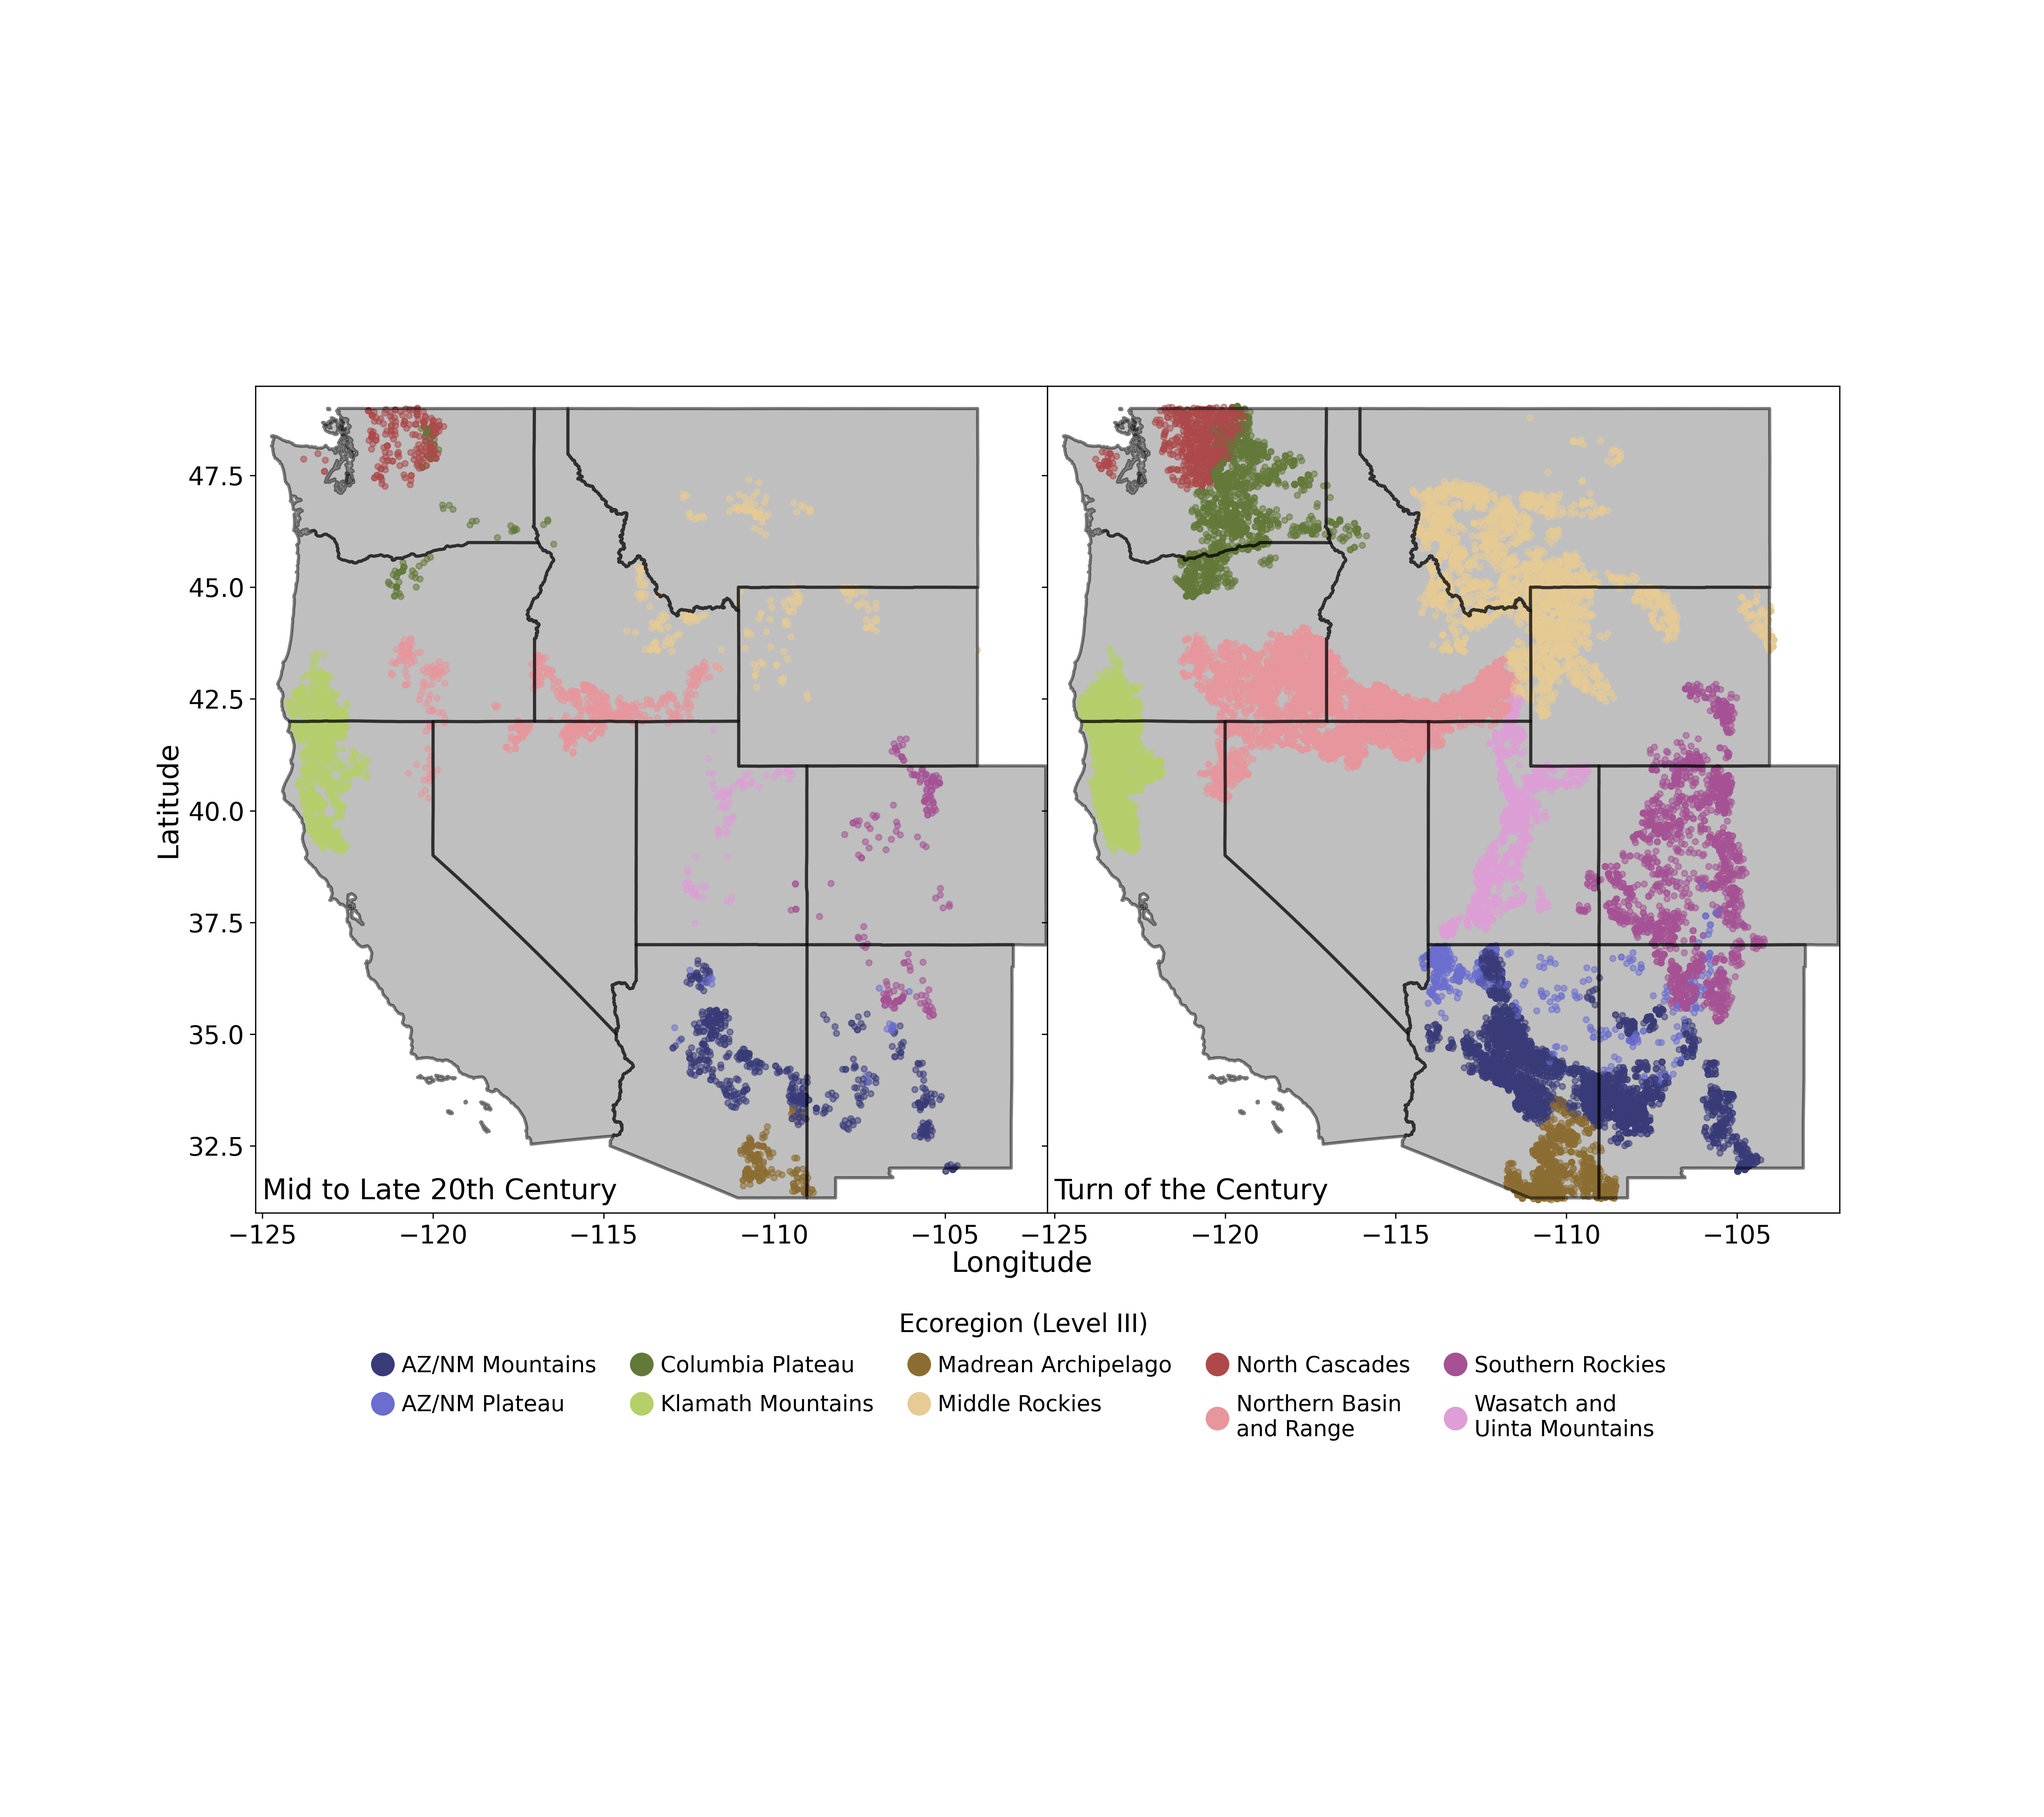
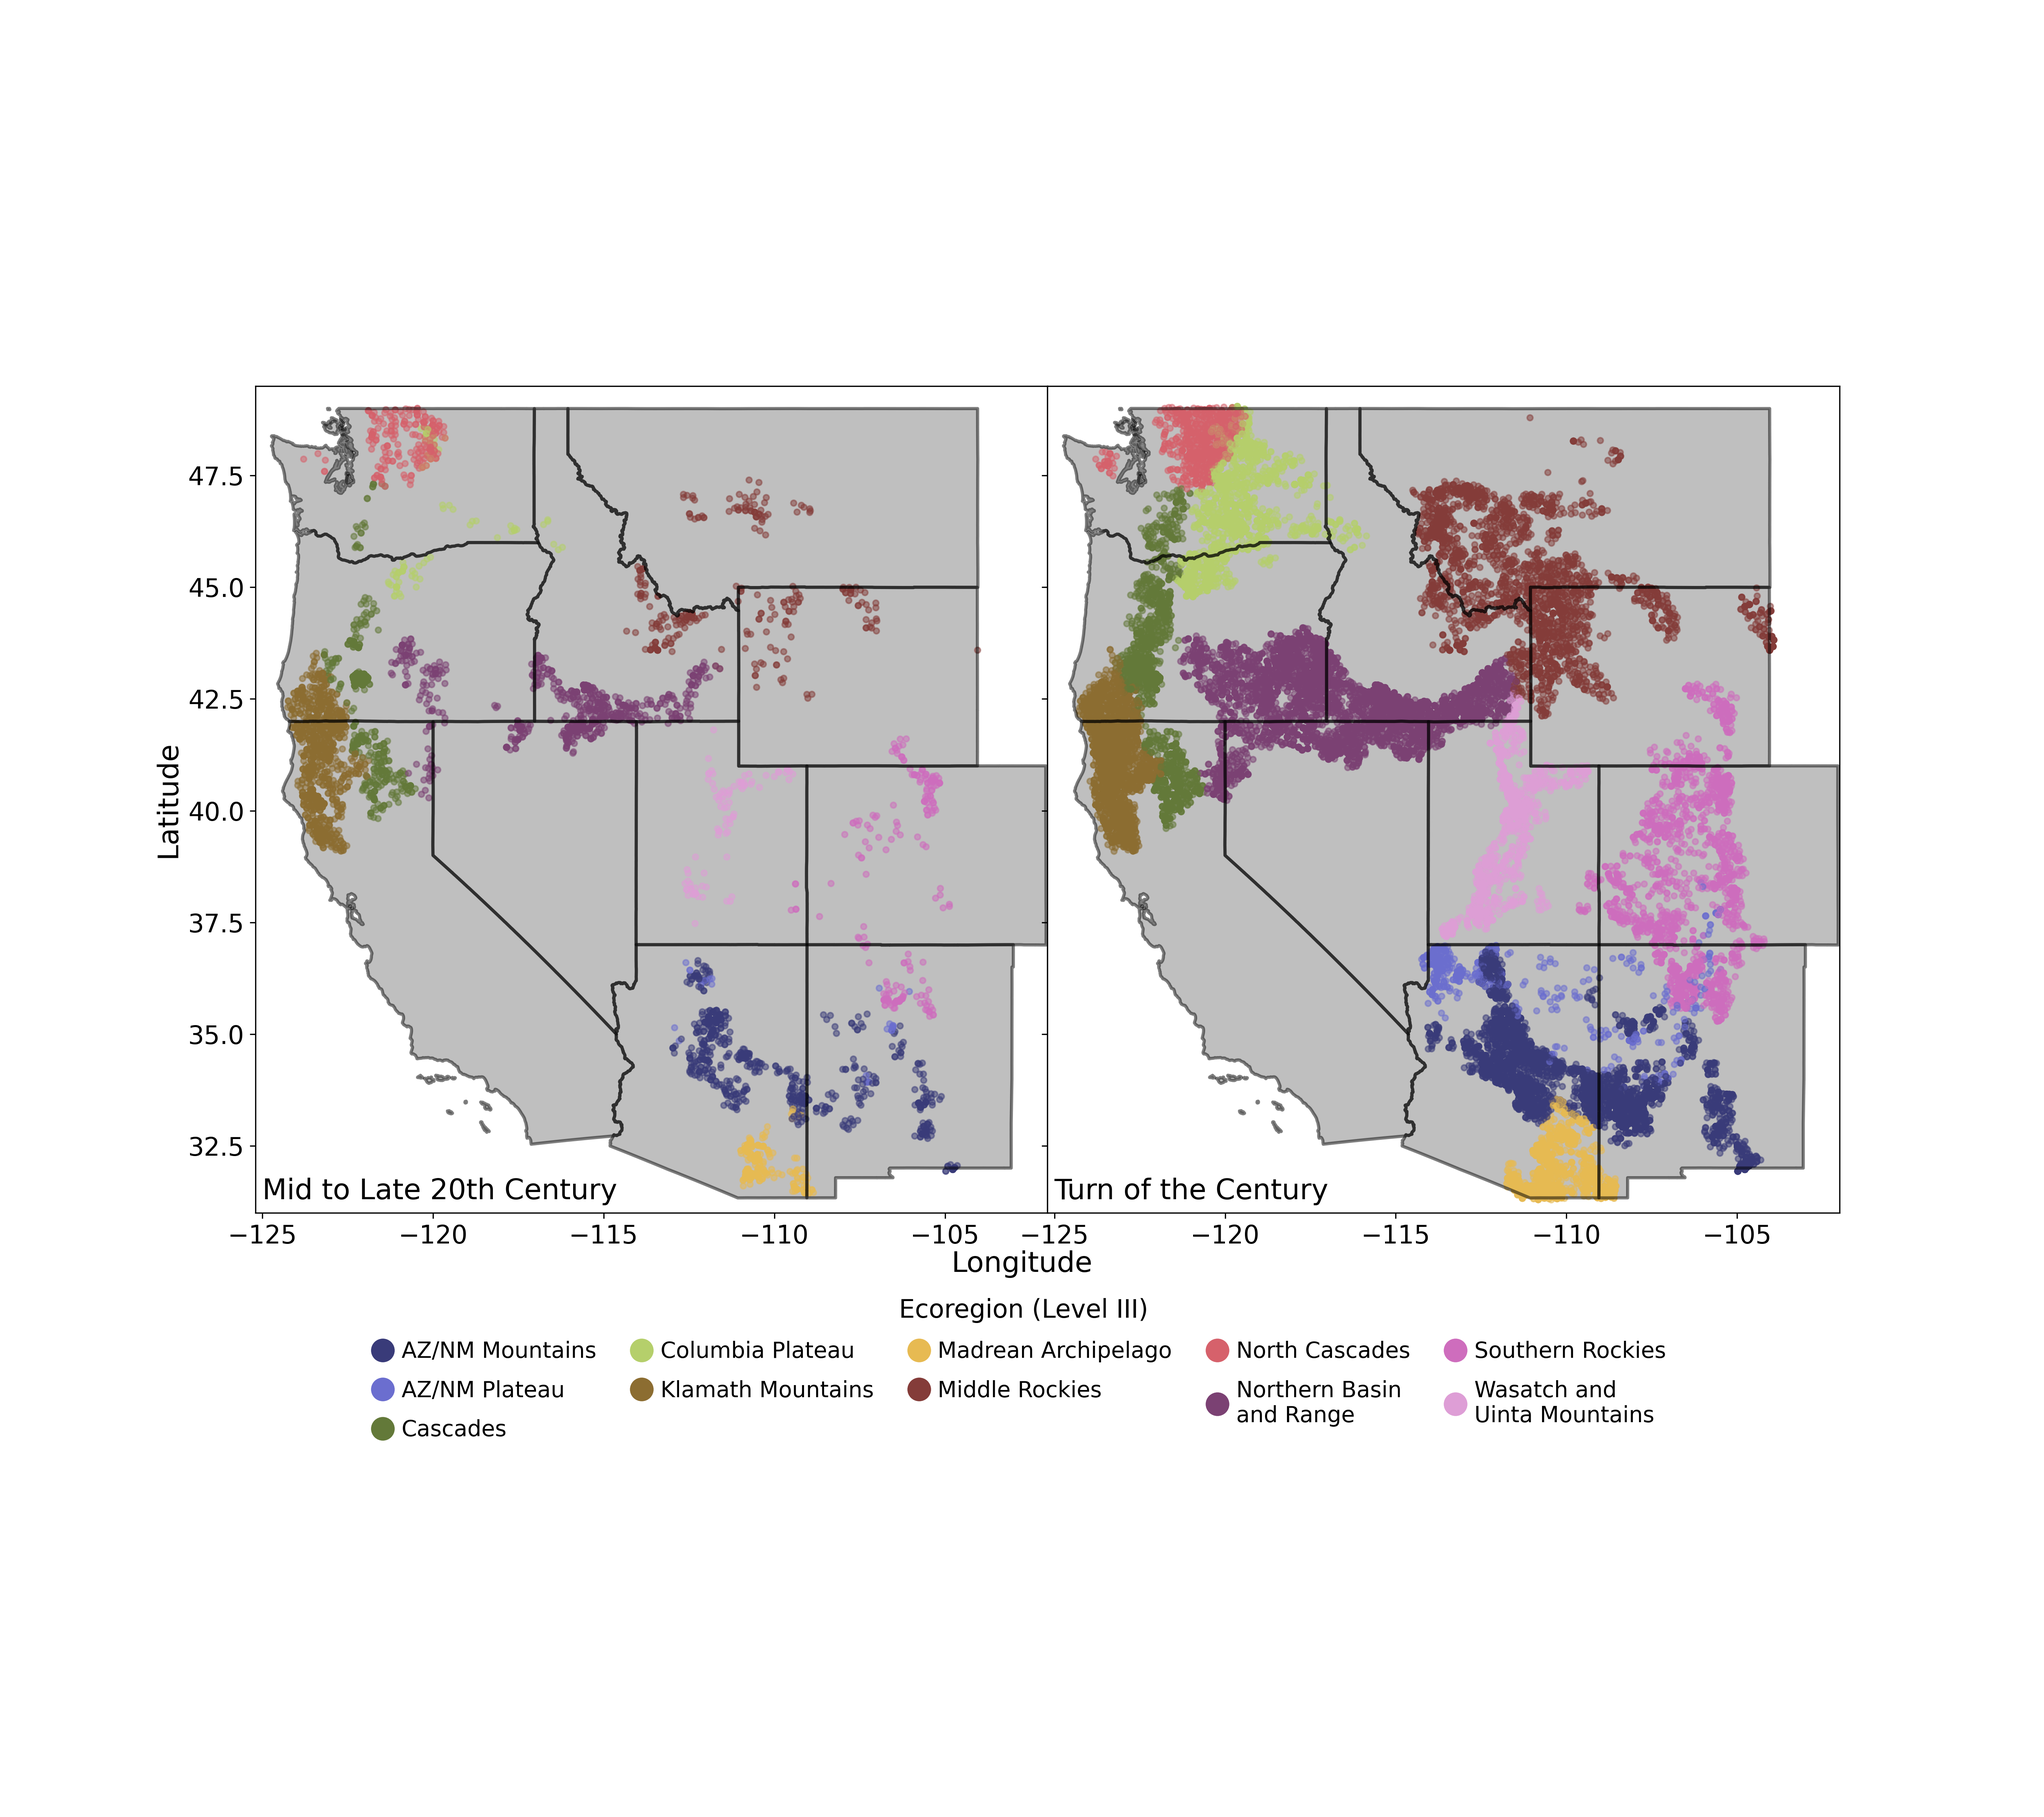
Hard limit to 2024

diff --git a/make_figure_4.py b/make_figure_4.py
@@ -2,8 +2,9 @@ import os
 
 import geopandas as gpd
 import matplotlib.pyplot as plt
-import utils.stat as stat
 from matplotlib.colors import ListedColormap
+
+from utils import stat
 
 project_path = os.path.dirname(os.path.abspath(__file__))
 tables_path = os.path.join(project_path, "Assets/Tables")
@@ -29,6 +30,7 @@ rev_bap = list(reversed(bap_intervals))
 eco_res_all = stat.load_asset(os.path.join(results_path, "ECO_MK_HG_L3_5070.csv"))
 eco_res_all["Kendall's $\\tau$"] = eco_res_all["Kendall's $\\tau$"].astype(float)
 eco_res_all["Changepoint (cp)"] = eco_res_all["Changepoint (cp)"].astype(int)
+print(eco_res_all)
 
 
 eco_res_all = eco_res_all.replace(
@@ -46,7 +48,8 @@ eco_res_all = eco_res_all.replace(
 
 
 eco_res = eco_res_all[eco_res_all["Trend"] == "increasing"]
-eco_res = eco_res[eco_res["Kendall's $\\tau$"] > 0.3]
+eco_res = eco_res[eco_res["Kendall's $\\tau$"] > 0.29]
+print(eco_res)
 print(eco_res["Changepoint (cp)"].mean())
 eco_other = eco_res_all[eco_res_all["Trend"] != "increasing"]
 plot_consume = stat.load_asset(

diff --git a/utils/matplot.py b/utils/matplot.py
@@ -1,12 +1,11 @@
-from pandas import pivot_table, Categorical
-from pandas import options
 import matplotlib.pyplot as plt
-from numpy import arange, zeros, array
-from seaborn import heatmap
+from matplotlib.pyplot import rcParams, show, subplots, subplots_adjust
+from matplotlib.ticker import AutoMinorLocator, MultipleLocator
+from numpy import arange, array, zeros
 from palettable import colorbrewer
-from matplotlib.pyplot import subplots, subplots_adjust, show, rcParams
+from pandas import Categorical, options, pivot_table
 from pandas.plotting import table
-from matplotlib.ticker import MultipleLocator, AutoMinorLocator
+from seaborn import heatmap
 
 options.mode.chained_assignment = None
 

diff --git a/04_statistical_analysis.py b/04_statistical_analysis.py
@@ -1,6 +1,8 @@
-import utils.stat as stat
-import pandas as pd
 import os
+
+import pandas as pd
+
+from utils import stat
 
 project_path = os.path.dirname(os.path.abspath(__file__))
 results_path = os.path.join(project_path, "Assets/Results")
@@ -211,7 +213,6 @@ def BAP_Interval_Test():
             interval_results.append(res)
             i_res = pd.merge(pivot[pivot["BAP Interval"] == b], res, on="BAP Interval")
             interval_results_ts.append(i_res)
-        #
 
         interval_results = pd.concat(interval_results)
         interval_results_ts = pd.concat(interval_results_ts)

diff --git a/01_make_burn_area_matrix.py b/01_make_burn_area_matrix.py
@@ -1,13 +1,14 @@
 import json
 import os
-from geopandas import read_file, GeoDataFrame
-from pandas import concat
-import dask_geopandas
 import time
+
+import dask_geopandas
+from geopandas import GeoDataFrame, read_file
+from pandas import concat
 
 num_par = 8
 fire_year_start = 1940
-fire_year_end = 2025
+fire_year_end = 2024
 
 
 project_path = os.path.dirname(os.path.abspath(__file__))

diff --git a/make_figure_5.py b/make_figure_5.py
@@ -1,6 +1,7 @@
-import utils.stat as stat
 import os
+
 import utils.matplot as mplot
+from utils import stat
 
 project_path = os.path.dirname(os.path.abspath(__file__))
 shapes_path = os.path.join(project_path, "Assets/Shapes")
